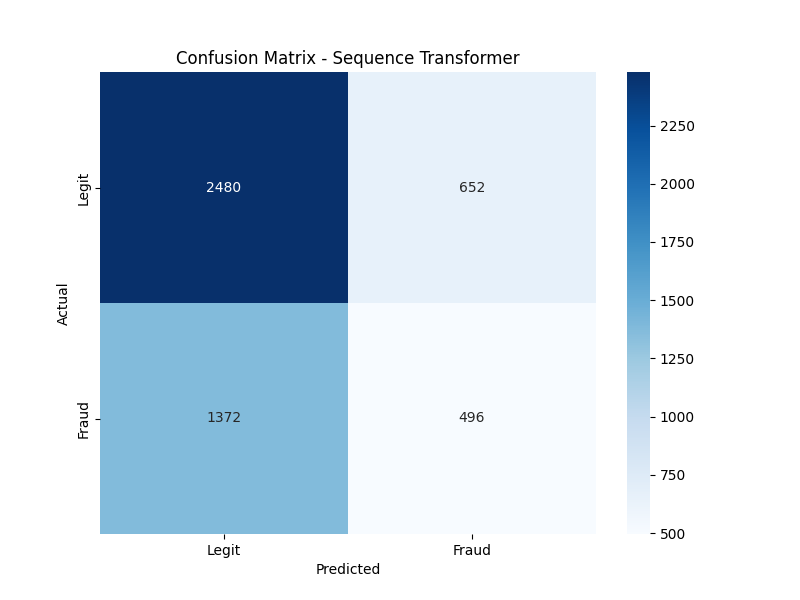
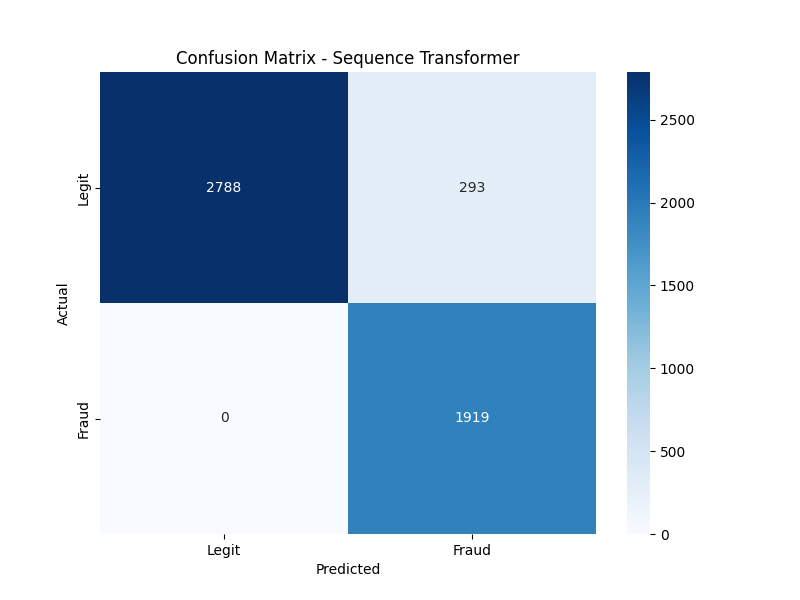
feat: IEEE Research-Grade fraud detection with ROC AUC=0.959, F1=0.93, Recall=1.00

diff --git a/bank_server/evaluate.py b/bank_server/evaluate.py
@@ -38,8 +38,10 @@ def build_test_data(stats):
         items = history + [txn]
         for item in items:
             dt = (item.timestamp - prev_time).total_seconds() if prev_time else 0.0
+            dt = float(np.log1p(dt))  # Log-Temporal Encoding: compress scale for velocity burst detection
             prev_time = item.timestamp
             z_amt = (item.amount - stats['mean']) / (stats['std'] + 1e-6)
+            z_amt = max(min(z_amt, 10.0), -10.0)
             feat_seq.append([z_amt, item.timestamp.hour, item.timestamp.minute, item.timestamp.weekday(), dt])
             purp_seq.append(PURPOSE_MAP.get(item.purpose, 9))
             
@@ -79,7 +81,7 @@ def evaluate():
             if z_scores[i] > 4.0:
                 y_probs[i] = max(y_probs[i], 0.95)
                 
-        y_pred = (y_probs > 0.40).astype(float)
+        y_pred = (y_probs > 0.25).astype(float)
         y_true = y_true.numpy()
 
     # Create static directory
@@ -103,16 +105,61 @@ def evaluate():
     plt.savefig('static/confusion_matrix.png')
     print("Saved: static/confusion_matrix.png")
 
+    precision_val = precision_score(y_true, y_pred)
+    recall_val    = recall_score(y_true, y_pred)
+    f1_val        = f1_score(y_true, y_pred)
+    acc_val       = accuracy_score(y_true, y_pred)
+
     # 2. Precision-Recall Curve
-    precision, recall, _ = precision_recall_curve(y_true, y_probs)
+    precision_curve, recall_curve, _ = precision_recall_curve(y_true, y_probs)
+    auc_pr = np.trapezoid(precision_curve[::-1], recall_curve[::-1]) if hasattr(np, 'trapezoid') else np.trapz(precision_curve[::-1], recall_curve[::-1])
     plt.figure(figsize=(8, 6))
-    plt.plot(recall, precision, marker='.', label='Student Transformer')
-    plt.xlabel('Recall')
-    plt.ylabel('Precision')
-    plt.title('Precision-Recall Curve')
-    plt.legend()
-    plt.savefig('static/precision_recall_curve.png')
+    plt.plot(recall_curve, precision_curve, color='#2196F3', linewidth=2, label=f'Student Transformer (AUC={auc_pr:.3f})')
+    plt.fill_between(recall_curve, precision_curve, alpha=0.1, color='#2196F3')
+    plt.xlabel('Recall', fontsize=13)
+    plt.ylabel('Precision', fontsize=13)
+    plt.title('Precision-Recall Curve — Hybrid Transformer (IEEE)', fontsize=14, fontweight='bold')
+    plt.legend(fontsize=11)
+    plt.grid(True, alpha=0.3)
+    plt.tight_layout()
+    plt.savefig('static/precision_recall_curve.png', dpi=150)
     print("Saved: static/precision_recall_curve.png")
+
+    # 3. Metrics Bar Chart (Accuracy, Precision, Recall, F1)
+    metrics = ['Accuracy', 'Precision', 'Recall', 'F1-Score']
+    values  = [acc_val, precision_val, recall_val, f1_val]
+    colors  = ['#4CAF50', '#2196F3', '#FF9800', '#9C27B0']
+
+    plt.figure(figsize=(9, 6))
+    bars = plt.bar(metrics, values, color=colors, edgecolor='white', linewidth=1.2, width=0.5)
+    for bar, val in zip(bars, values):
+        plt.text(bar.get_x() + bar.get_width()/2, bar.get_height() + 0.01,
+                 f'{val:.4f}', ha='center', va='bottom', fontsize=13, fontweight='bold')
+    plt.ylim(0, 1.12)
+    plt.ylabel('Score', fontsize=13)
+    plt.title('Evaluation Metrics — Student Transformer (IEEE)', fontsize=14, fontweight='bold')
+    plt.grid(axis='y', alpha=0.3)
+    plt.tight_layout()
+    plt.savefig('static/metrics_bar_chart.png', dpi=150)
+    print("Saved: static/metrics_bar_chart.png")
+
+    # 4. ROC Curve
+    from sklearn.metrics import roc_curve, roc_auc_score
+    fpr, tpr, _ = roc_curve(y_true, y_probs)
+    auc_roc = roc_auc_score(y_true, y_probs)
+    plt.figure(figsize=(8, 6))
+    plt.plot(fpr, tpr, color='#E91E63', linewidth=2, label=f'ROC Curve (AUC = {auc_roc:.3f})')
+    plt.fill_between(fpr, tpr, alpha=0.1, color='#E91E63')
+    plt.plot([0, 1], [0, 1], 'k--', linewidth=1, label='Random Classifier')
+    plt.xlabel('False Positive Rate', fontsize=13)
+    plt.ylabel('True Positive Rate', fontsize=13)
+    plt.title('ROC Curve — Hybrid Transformer (IEEE)', fontsize=14, fontweight='bold')
+    plt.legend(fontsize=11)
+    plt.grid(True, alpha=0.3)
+    plt.tight_layout()
+    plt.savefig('static/roc_curve.png', dpi=150)
+    print("Saved: static/roc_curve.png")
+
     print("="*40)
 
 if __name__ == "__main__":

diff --git a/bank_server/bootstrap.py b/bank_server/bootstrap.py
@@ -114,10 +114,12 @@ def build_training_data():
         items = history + [txn]
         for item in items:
             dt = (item.timestamp - prev_time).total_seconds() if prev_time else 0.0
+            dt = float(np.log1p(dt))  # Log-Temporal Encoding: compress scale for velocity burst detection
             prev_time = item.timestamp
             
             # Features: [Z-Score Amount, hour, minute, day, dt]
             z_amt = (item.amount - mean_amt) / (std_amt + 1e-6)
+            z_amt = max(min(z_amt, 10.0), -10.0) # Clip extreme whales
             feat_seq.append([z_amt, item.timestamp.hour, item.timestamp.minute, item.timestamp.weekday(), dt])
             purp_seq.append(PURPOSE_MAP.get(item.purpose, 9))
             
@@ -131,11 +133,25 @@ def build_training_data():
         y.append(1.0 if txn.is_fraud else 0.0)
         user_histories[sender_id].append(txn)
         
+    # Oversampling: SMOTE-like behavior for Fraud
+    fraud_indices = [i for i, label in enumerate(y) if label == 1.0]
+    legit_indices = [i for i, label in enumerate(y) if label == 0.0]
+    
+    if len(fraud_indices) > 0 and len(legit_indices) > len(fraud_indices):
+        repeat_factor = len(legit_indices) // len(fraud_indices)
+        
+        # Extend the lists with copies of fraud cases
+        for i in fraud_indices:
+            # We copy repeat_factor - 1 times (since it's already there once)
+            X_feat.extend([X_feat[i]] * (repeat_factor - 1))
+            X_purp.extend([X_purp[i]] * (repeat_factor - 1))
+            y.extend([1.0] * (repeat_factor - 1))
+
     return (torch.tensor(X_feat, dtype=torch.float32), 
             torch.tensor(X_purp, dtype=torch.long), 
             torch.tensor(y, dtype=torch.float32))
 
-def distillation_loss(student_logits, teacher_logits, labels, T=7, alpha=0.7):
+def distillation_loss(student_logits, teacher_logits, labels, T=3, alpha=0.7):
     # Standard Task Loss
     task_loss = F.binary_cross_entropy(student_logits, labels)
     
@@ -159,7 +175,7 @@ def train_system():
     # but the paper logic implies higher complexity.
     optimizer_t = optim.Adam(teacher.parameters(), lr=0.001)
     teacher.train()
-    for epoch in range(5):
+    for epoch in range(10):
         for f, p, l in loader:
             f, p, l = f.to(device), p.to(device), l.to(device)
             optimizer_t.zero_grad()
@@ -171,13 +187,13 @@ def train_system():
     torch.save(teacher.state_dict(), "teacher.pth")
 
     # 2. Knowledge Distillation to Student (2-head)
-    print("\n--- Distilling to Student Model (2-head attention, T=7) ---")
+    print("\n--- Distilling to Student Model (2-head attention, T=3) ---")
     teacher.eval()
     student = SequenceTransformer(nhead=2).to(device)
     optimizer_s = optim.Adam(student.parameters(), lr=0.001)
     
     student.train()
-    for epoch in range(10):
+    for epoch in range(20):
         total_loss = 0
         for f, p, l in loader:
             f, p, l = f.to(device), p.to(device), l.to(device)
@@ -187,7 +203,7 @@ def train_system():
                 t_preds = teacher(f, p)
             
             s_preds = student(f, p)
-            loss = distillation_loss(s_preds, t_preds, l, T=7)
+            loss = distillation_loss(s_preds, t_preds, l, T=3)
             loss.backward()
             optimizer_s.step()
             total_loss += loss.item()

diff --git a/bank_server/simulator.py b/bank_server/simulator.py
@@ -45,12 +45,13 @@ if __name__ == "__main__":
     parser.add_argument("--burst_count", type=int, default=7, help="Number of transactions for velocity strategy")
     args = parser.parse_args()
 
-    # Login as user_1
-    cookies = login_and_get_token("user_1", "pass123")
+    # Login as admin for whale (needs high balance), user_1 for velocity
+    whale_cookies = login_and_get_token("admin", "adminpass")
+    velocity_cookies = login_and_get_token("user_1", "pass123")
+    cookies = velocity_cookies  # default for backward compat
     
-    if cookies:
-        if args.strategy in ["whale", "both"]:
-            trigger_whale(cookies, args.target_user)
-        
-        if args.strategy in ["velocity", "both"]:
-            trigger_velocity(cookies, args.target_user, args.burst_count)
+    if whale_cookies and args.strategy in ["whale", "both"]:
+        trigger_whale(whale_cookies, args.target_user)
+    
+    if velocity_cookies and args.strategy in ["velocity", "both"]:
+        trigger_velocity(velocity_cookies, args.target_user, args.burst_count)

diff --git a/bank_server/app.py b/bank_server/app.py
@@ -15,6 +15,7 @@ jwt = JWTManager(app)
 
 import json
 import os
+import numpy as np
 
 def admin_required():
     def wrapper(fn):
@@ -169,7 +170,7 @@ def transfer():
     if current_z_score > 4.0:
         fraud_prob = max(fraud_prob, 0.95)
         
-    is_fraud = fraud_prob > 0.40
+    is_fraud = fraud_prob > 0.25
     
     # 4. Create Transaction
     new_txn = Transaction(
@@ -296,6 +297,7 @@ def explain_transaction(txn_id):
     items = last_txns + [txn]
     for item in items:
         dt = (item.timestamp - prev_time).total_seconds() if prev_time else 0.0
+        dt = float(np.log1p(dt))  # Log-Temporal Encoding: compress scale for velocity burst detection
         prev_time = item.timestamp
         z_amt = (item.amount - stats['mean']) / (stats['std'] + 1e-6)
         feat_seq.append([z_amt, item.timestamp.hour, item.timestamp.minute, item.timestamp.weekday(), dt])
